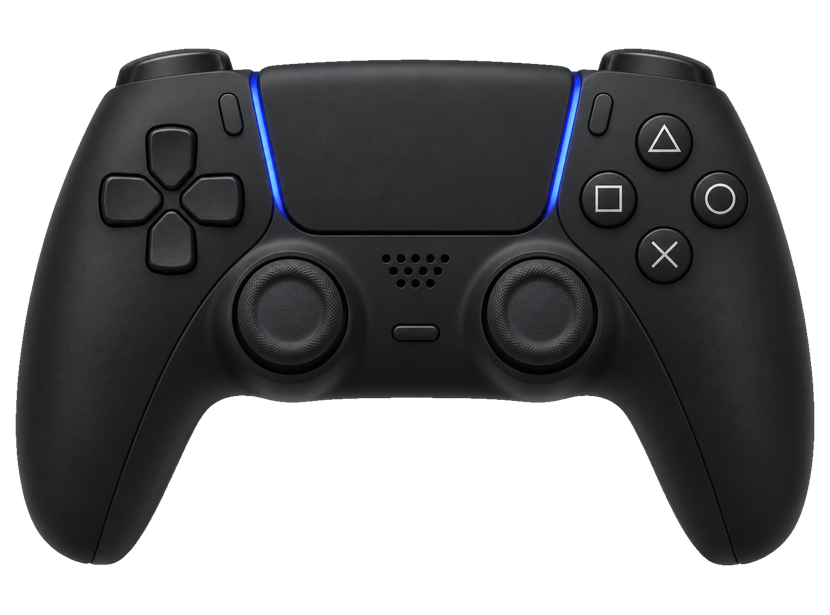
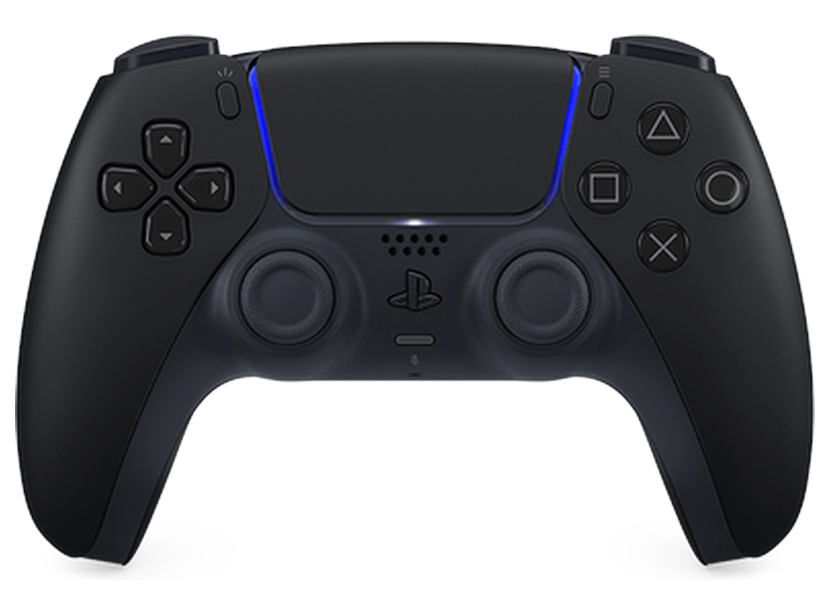
Controller tester: the DualSense's own picture

diff --git a/THIRD_PARTY_NOTICES.md b/THIRD_PARTY_NOTICES.md
@@ -94,7 +94,7 @@ The logos of the older systems, made plain white and trimmed to the artwork (the
 
 ## Controller pictures
 
-The controller pictures in `app/assets` (`pad-xbox.png`, `pad-ps5.png`, `pad-ps4.png`, `pad-ps3.png`, `pad-sw1.png`, `pad-sw2.png`) are original pictures made for this project with an image generator. They have no logos. `controller-steam.png` is Valve's product image of the Steam Controller; the Steam Controller and the Steam logo belong to Valve Corporation.
+The controller pictures in `app/assets` (`pad-xbox.png`, `pad-ps4.png`, `pad-ps3.png`, `pad-sw1.png`, `pad-sw2.png`) are original pictures made for this project with an image generator. They have no logos. `pad-ps5.png` is Sony's product image of the DualSense; the DualSense and the PlayStation logo belong to Sony Interactive Entertainment. `controller-steam.png` is Valve's product image of the Steam Controller; the Steam Controller and the Steam logo belong to Valve Corporation.
 
 ## Data the app fetches
 
